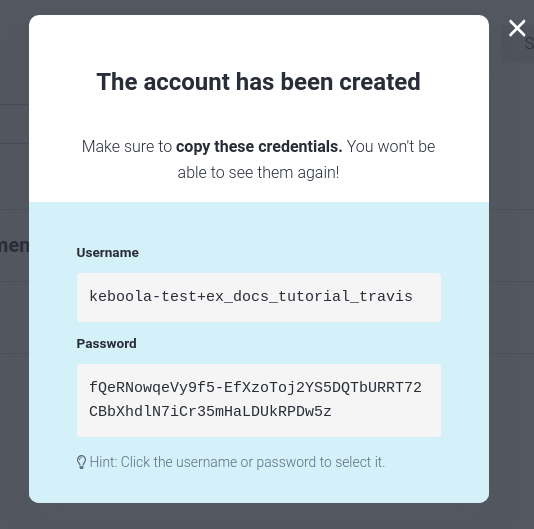
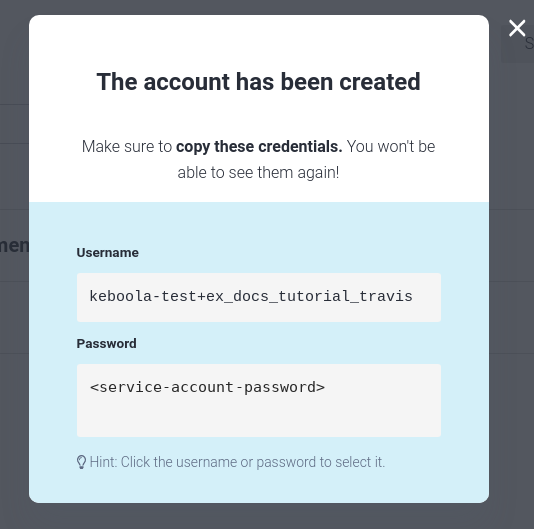
Mask the service-account password in a tutorial screenshot; service accounts belong to the vendor
- public/extend/component/tutorial/service-account-3.png showed the password of keboola-test+ex_docs_tutorial_travis in clear text; the field now reads <service-account-password>. The old image stays in git history, so the password still has to be rotated by a Developer Portal admin.
- extend/component/running: the service account comes from the vendor's Service accounts page (username <vendor>+<name>), linked to Creating Deployment Account.
- Merged main (includes #1189).

Claude-Session: https://claude.ai/code/session_01FtAysJwcXzdEhth6ZJf5Pm

Changed region(s): [[0.1498, 0.7259, 0.779, 0.7864]]

diff --git a/src/content/docs/extend/component/running/index.md b/src/content/docs/extend/component/running/index.md
@@ -203,8 +203,8 @@ already [prepared the data directory](#preparing-data-folder).
 The next step is to obtain the repository settings and credentials from the
 [Developer Portal](https://components.keboola.com/). You can either use the [API](https://api.keboola.com/?service=developer-portal) or
 the [CLI](https://github.com/keboola/developer-portal-cli-v2). The CLI is easier to use. First set your service account credentials
-in the environment. Use the service account you created for your component on its **Service accounts** page
-in the Developer Portal:
+in the environment. Use a service account of your vendor, from the vendor's **Service accounts** page in the Developer Portal
+(see [Creating Deployment Account](/extend/component/tutorial/#creating-deployment-account)):
 
     export KBC_DEVELOPERPORTAL_USERNAME=<vendor>+<service-account-name>
     export KBC_DEVELOPERPORTAL_PASSWORD=<service-account-password>
